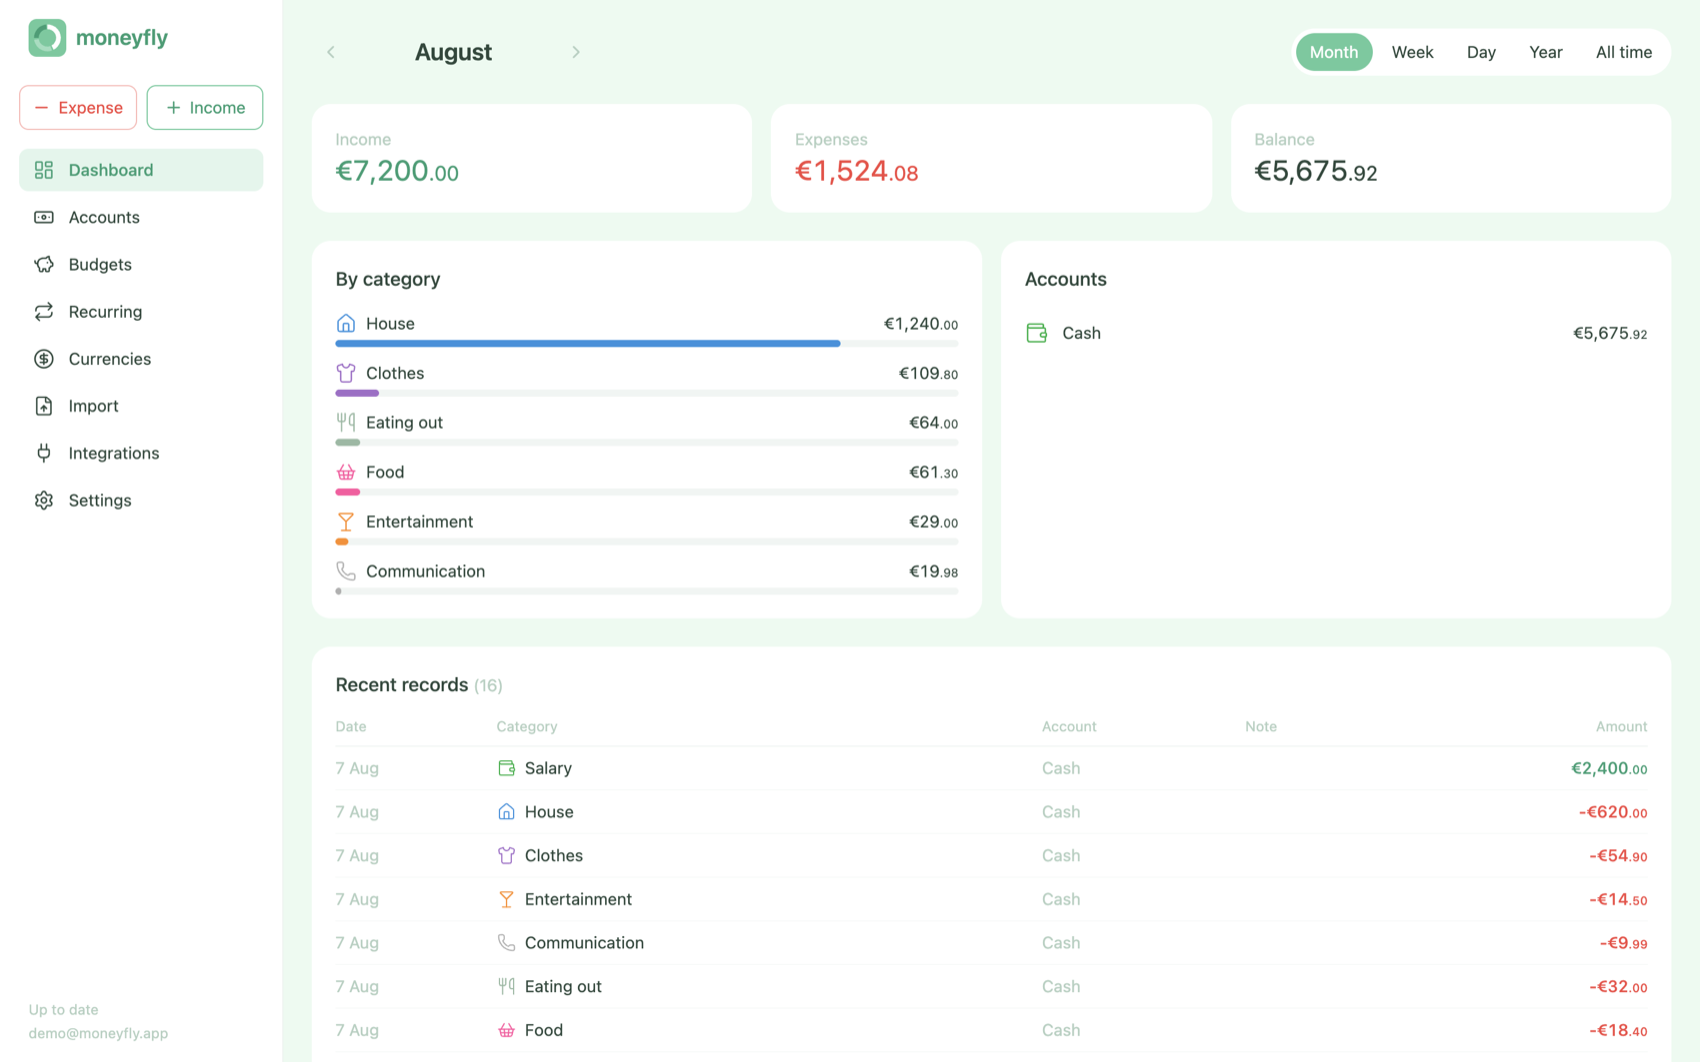
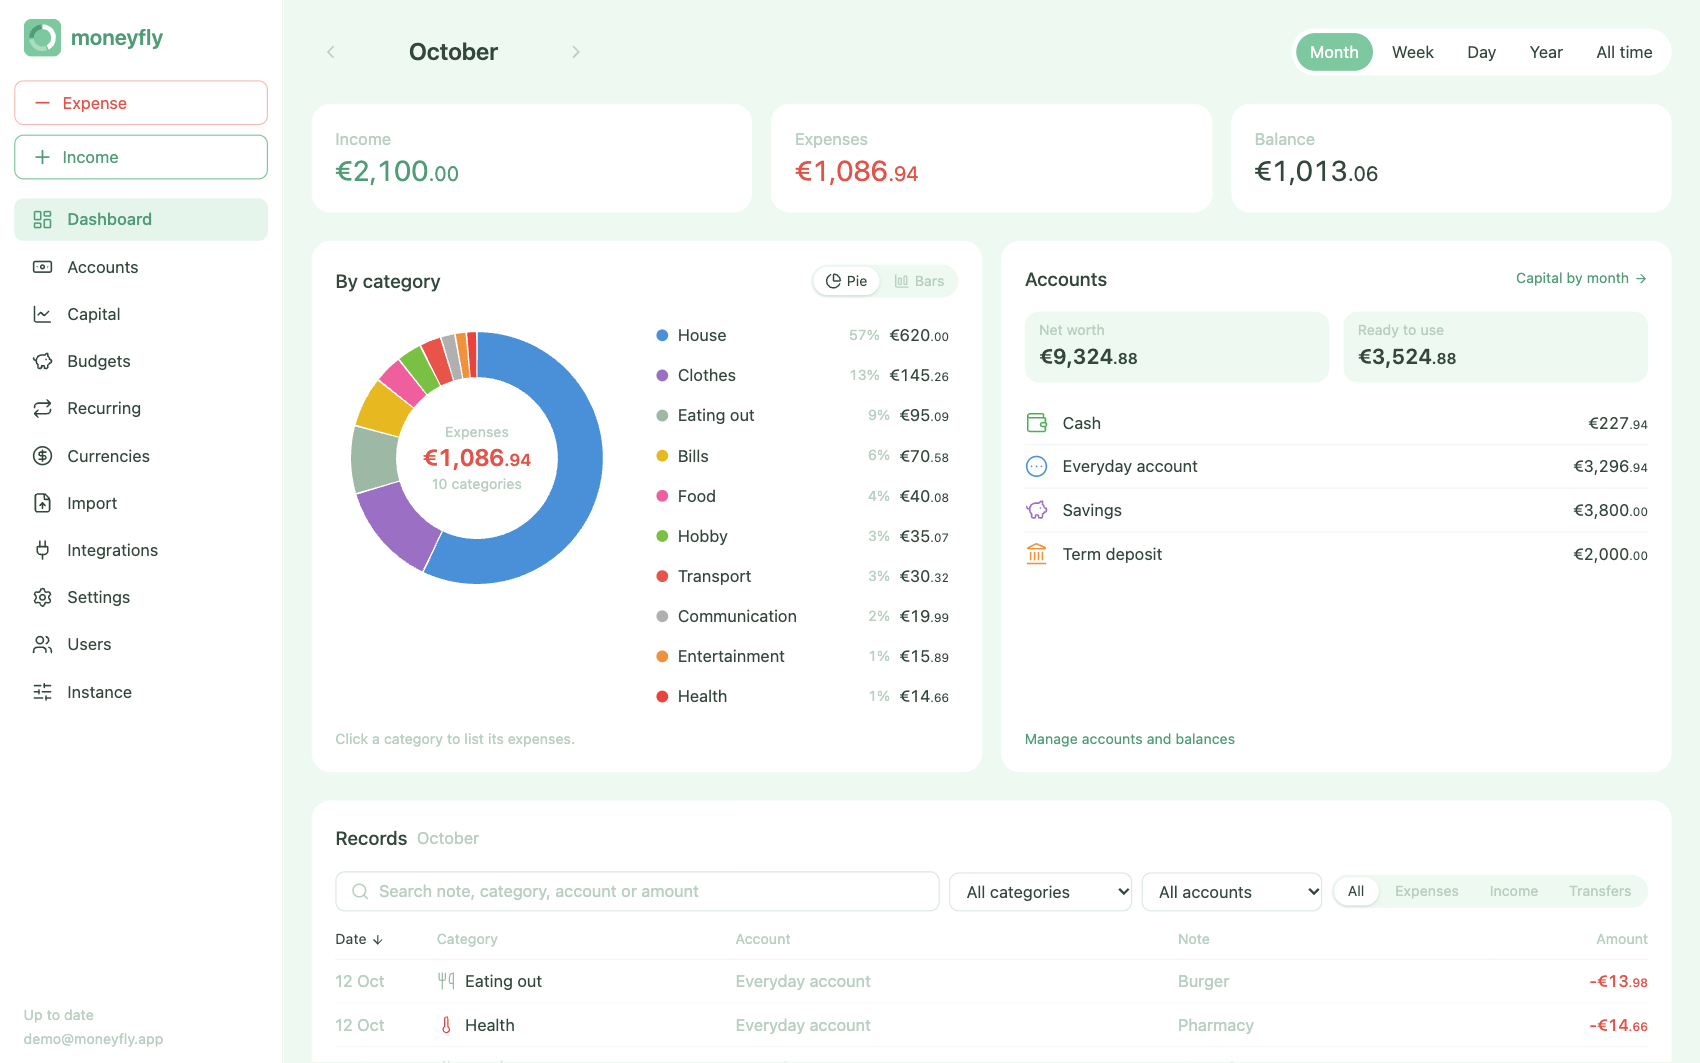
docs: refresh desktop dashboard screenshot, add capital view to README

diff --git a/README.md b/README.md
@@ -21,15 +21,21 @@
 <p align="center">
   <img src="docs/screenshots/desktop-dashboard.png" width="760" alt="Analytics dashboard on desktop">
 </p>
-<p align="center"><sub>Desktop analytics dashboard</sub></p>
+<p align="center"><sub>Desktop analytics dashboard — spending by category (pie or bars), accounts grouped with net worth and what is ready to use, and a filterable, searchable records table</sub></p>
+
+<p align="center">
+  <img src="docs/screenshots/desktop-capital.png" width="760" alt="Capital: net worth over time, where it is held, income versus spending">
+</p>
+<p align="center"><sub>Capital — a monthly check-in of what you hold, laid against income and spending</sub></p>
 
 ---
 
 > **Status: usable.** Install it, record spending in three taps, switch periods, run accounts and
 > transfers in several currencies, edit and search, set budgets and recurring records, import a
 > Monefy export, export, integrate or script against your own data, and get a real analytics
-> dashboard on a wider screen — all of it working with no connection, syncing when one returns. A
-> few PWA niceties (dark theme, a PIN lock) are still to come. See [the roadmap](#roadmap).
+> dashboard on a wider screen, with a monthly capital view of your net worth — all of it working
+> with no connection, syncing when one returns. A few PWA niceties (dark theme, a PIN lock) are
+> still to come. See [the roadmap](#roadmap).
 
 moneyfly is a personal expense tracker you run yourself. One container, one data directory, no
 account with anyone else. On a phone it works the way Monefy does, because that design is hard to
@@ -311,7 +317,7 @@ including how to test sync between two devices, are in [docs/DEVELOPMENT.md](doc
 | 6–7 | Budgets, recurring records | ✅ |
 | 8 | Monefy CSV import | ✅ |
 | 9 | Export profiles, webhooks, API tokens | ✅ |
-| 10 | Desktop analytics dashboard | ✅ |
+| 10 | Desktop analytics dashboard, account groups, capital check-ins | ✅ |
 | 11 | PWA polish, dark theme, PIN lock | ◐ installable & offline |
 
 ## Relationship to Monefy
